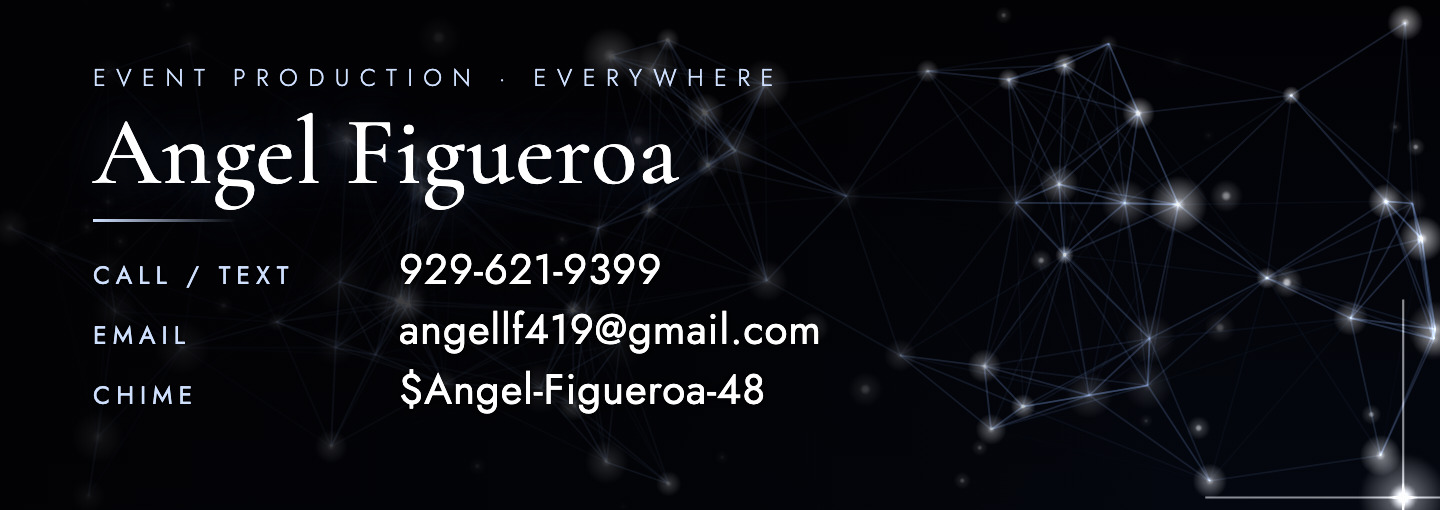
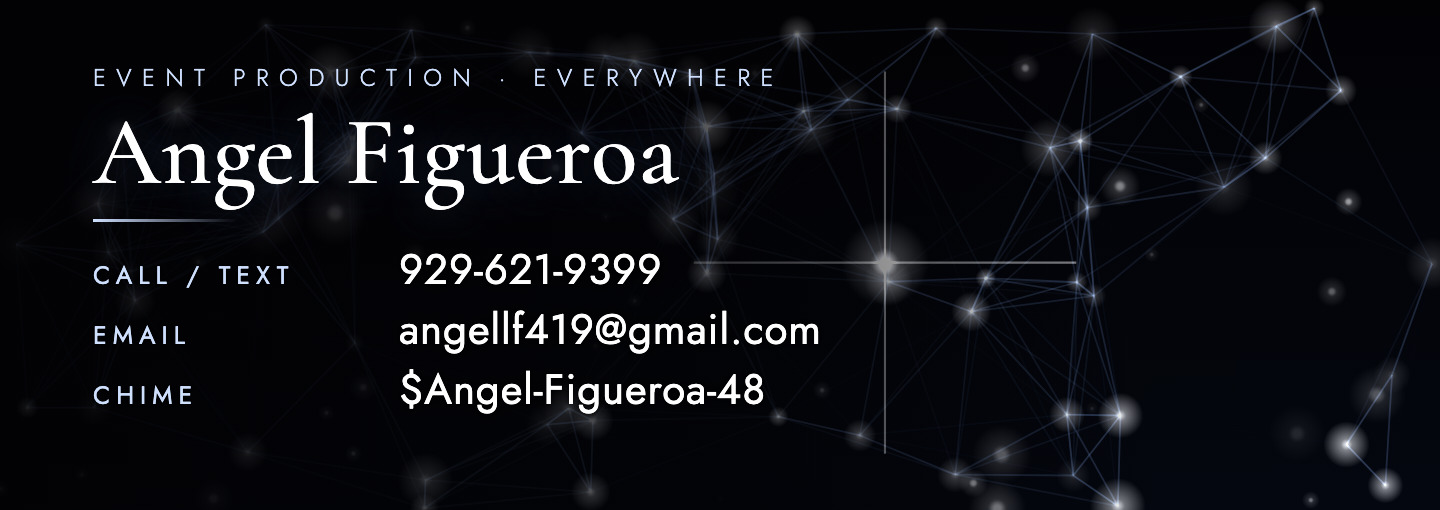
Pluto on stage: heart removed, a truss of moving heads lights it through haze (page 09 and its signature)

diff --git a/styles.html b/styles.html
@@ -139,7 +139,7 @@ const STYLES = [
   ['nebula',   'Blue nebula',          'Faint blue and silver clouds in deep space', 'matte'],
   ['concrete', 'Brushed steel',        'Dark graphite steel with light moving across it', 'shiny'],
   ['magma',    'Obsidian ice',         'Black stone with blue-white light breathing in the cracks', 'matte'],
-  ['saturn',   'Pluto',                'The icy dwarf planet, its white heart and blue haze', 'matte'],
+  ['saturn',   'Pluto on stage',       'The icy dwarf planet lit by moving heads through haze', 'shiny'],
 ];
 const grid = document.getElementById('grid'), tpl = document.getElementById('card');
 const scenes = [];
@@ -344,7 +344,7 @@ const P = {
     });
   },
   saturn(x, W, H, t, s) {
-    // Pluto: icy grey world, its bright white heart (Tombaugh Regio), the dark belt,
+    // Pluto: icy grey world, the dark belt,
     // and the thin blue haze New Horizons photographed around it
     if (!s.st) s.st = Array.from({ length: 240 }, () => ({ x: R(0, W), y: R(0, H), r: R(.2, 1.2), p: R(0, 9) }));
     x.fillStyle = '#010102'; x.fillRect(0, 0, W, H);
@@ -361,12 +361,30 @@ const P = {
       const ox = cx - r * 1.2 + spin - k * r * 4;
       // the dark equatorial belt
       x.fillStyle = 'rgba(30,36,50,.55)'; x.beginPath(); x.ellipse(ox + r * .2, cy + r * .28, r * .9, r * .24, -.12, 0, Math.PI * 2); x.fill();
-      // the white heart
-      x.save(); x.translate(ox + r * 1.25, cy + r * .1); x.scale(r / 76, r / 76);
-      x.shadowColor = 'rgba(255,255,255,.35)'; x.shadowBlur = 14; x.fillStyle = 'rgba(236,240,248,.55)';
-      x.beginPath(); x.moveTo(0, 36); x.bezierCurveTo(-40, 10, -38, -24, -14, -24); x.bezierCurveTo(-4, -24, 0, -16, 0, -10); x.bezierCurveTo(0, -16, 6, -26, 18, -24); x.bezierCurveTo(40, -20, 34, 12, 0, 36); x.fill();
-      x.restore();
     }
+    x.restore();
+    // stage lighting: a truss of moving heads at the top, white and ice-blue beams through haze,
+    // crossing to light the planet like a set piece on stage
+    const TY = H * .09, fix = [W * .1, W * .3, W * .7, W * .9];
+    x.fillStyle = '#0b0d12'; x.fillRect(W * .04, TY - 4, W * .92, 5);
+    x.strokeStyle = 'rgba(200,215,240,.25)'; x.lineWidth = .6; x.strokeRect(W * .04, TY - 4, W * .92, 5);
+    x.globalCompositeOperation = 'lighter';
+    fix.forEach((fx, i) => {
+      const sweep = Math.sin(t * .45 + i * 1.7) * .35;
+      const tx = cx + (i < 2 ? -1 : 1) * r * .25 + Math.sin(t * .5 + i) * r * .6, ty = cy + Math.cos(t * .4 + i) * r * .3;
+      const ang = Math.atan2(ty - TY, tx - fx) + sweep * .3, len = H * 1.1, spread = .09;
+      const col = i % 2 ? '150,190,255' : '255,255,255';
+      const g = x.createLinearGradient(fx, TY, fx + Math.cos(ang) * len, TY + Math.sin(ang) * len);
+      g.addColorStop(0, `rgba(${col},.26)`); g.addColorStop(.45, `rgba(${col},.08)`); g.addColorStop(1, `rgba(${col},0)`);
+      x.fillStyle = g; x.beginPath(); x.moveTo(fx, TY);
+      x.lineTo(fx + Math.cos(ang - spread) * len, TY + Math.sin(ang - spread) * len);
+      x.lineTo(fx + Math.cos(ang + spread) * len, TY + Math.sin(ang + spread) * len); x.closePath(); x.fill();
+      const lg = x.createRadialGradient(fx, TY + 3, 0, fx, TY + 3, 14); lg.addColorStop(0, `rgba(${col},1)`); lg.addColorStop(1, `rgba(${col},0)`);
+      x.fillStyle = lg; x.fillRect(fx - 14, TY - 11, 28, 28);
+      x.fillStyle = '#0b0d12'; x.fillRect(fx - 5, TY, 10, 7);
+    });
+    x.globalCompositeOperation = 'source-over';
+    x.save(); x.beginPath(); x.arc(cx, cy, r, 0, Math.PI * 2); x.clip();
     // night side and terminator
     const sh = x.createRadialGradient(cx - r * .45, cy - r * .45, r * .3, cx, cy, r * 1.15); sh.addColorStop(0, 'rgba(0,0,0,0)'); sh.addColorStop(.7, 'rgba(0,0,0,.25)'); sh.addColorStop(1, 'rgba(0,0,0,.8)');
     x.fillStyle = sh; x.fillRect(cx - r, cy - r, r * 2, r * 2);

diff --git a/signature/index.html b/signature/index.html
@@ -36,7 +36,7 @@ const BASE = window.SIG_BASE || new URL('.', location.href).href;
 const LOOKS = [   // one to match each wristband page, same order and numbers
   ['holo',     'Silver hologram'], ['gold',   'Silver constellation'], ['aurora',   'Blue aurora'],
   ['tron',     'Blue circuit'],    ['wstars', 'White starfield'],      ['nebula',   'Blue nebula'],
-  ['concrete', 'Brushed steel'],   ['magma',  'Obsidian ice'],         ['saturn',   'Pluto'],
+  ['concrete', 'Brushed steel'],   ['magma',  'Obsidian ice'],         ['saturn',   'Pluto on stage'],
 ];
 const PHONE = '929-621-9399', TEL = '+19296219399', EMAIL = 'angellf419@gmail.com', CHIME = '$Angel-Figueroa-48';
 
